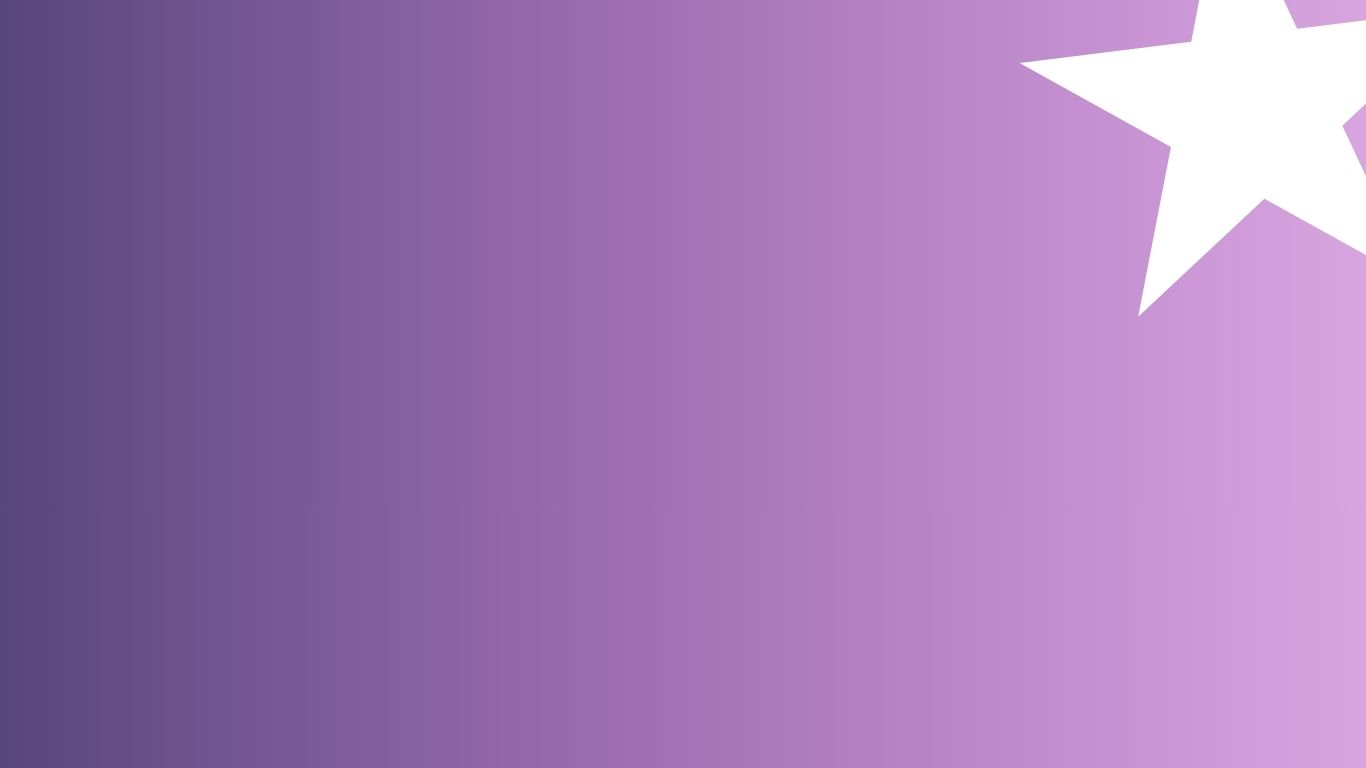
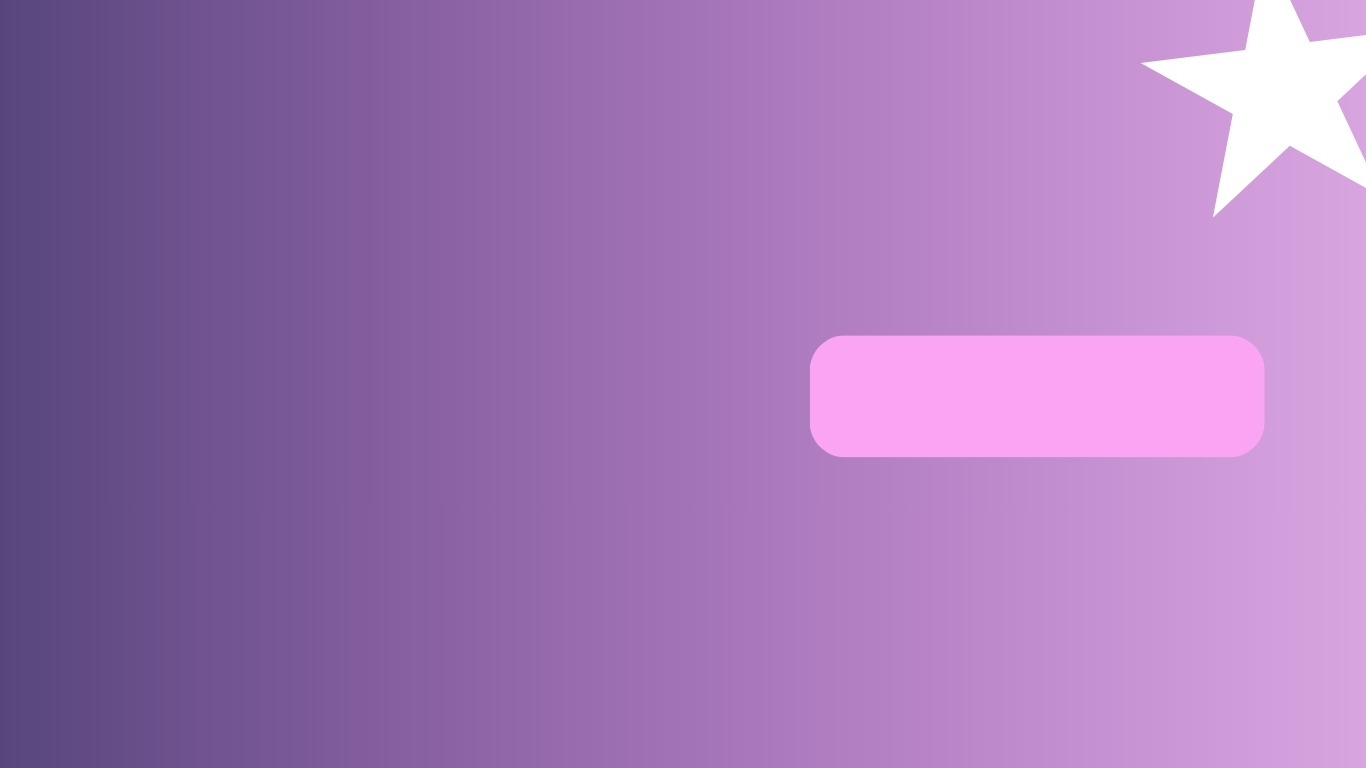
Add files via upload

Changed region(s): [[0.5842, 0.4375, 0.9224, 0.5938], [0.7379, 0.0, 1.0, 0.4062], [0.9531, 0.0, 1.0, 0.0625]]

diff --git a/style.css b/style.css
@@ -1,3 +1,5 @@
+@import url('https://fonts.googleapis.com/css2?family=Lora:ital,wght@0,400..700;1,400..700&display=swap');
+
 body {
     display: flex;
     background: url(fundo.jpg) no-repeat;
@@ -9,7 +11,7 @@ body {
 .prof-ft {
     width: 450px;
     padding: 100px;
-    transform: rotate(-4deg);
+    transform: rotate(-3deg);
     position: absolute;
 }
 
@@ -21,16 +23,26 @@ body {
 }
 
 .estrela {
-    width: 100px;
+    width: 1100px;
     position: relative;
-    top: 7%;
-    margin-right: 80px;
+    top: 25%;
+    margin-left: -400px;
+    transform: rotate(13deg);
+
 }
 
-.textos{
-    position: absolute;
+
+.nome {
+    color: #ffffff;
+    font-size: 100px;
+    font-family: "Lora", serif;
+    font-weight: lighter;
+    position: relative;
+    top: 10%;
+    margin-left: auto;
 }
 
 footer{
     position: absolute;
 }
+

diff --git a/index.html b/index.html
@@ -17,7 +17,7 @@
     </div>
 
     <div class="textos">
-        <h1 class="nome"> Nome da professora </h1>
+        <h1 class="nome"> Patrícia </h1>
         <p class="info"></p>
         <p class="info"></p>
         <p class="info"></p>
